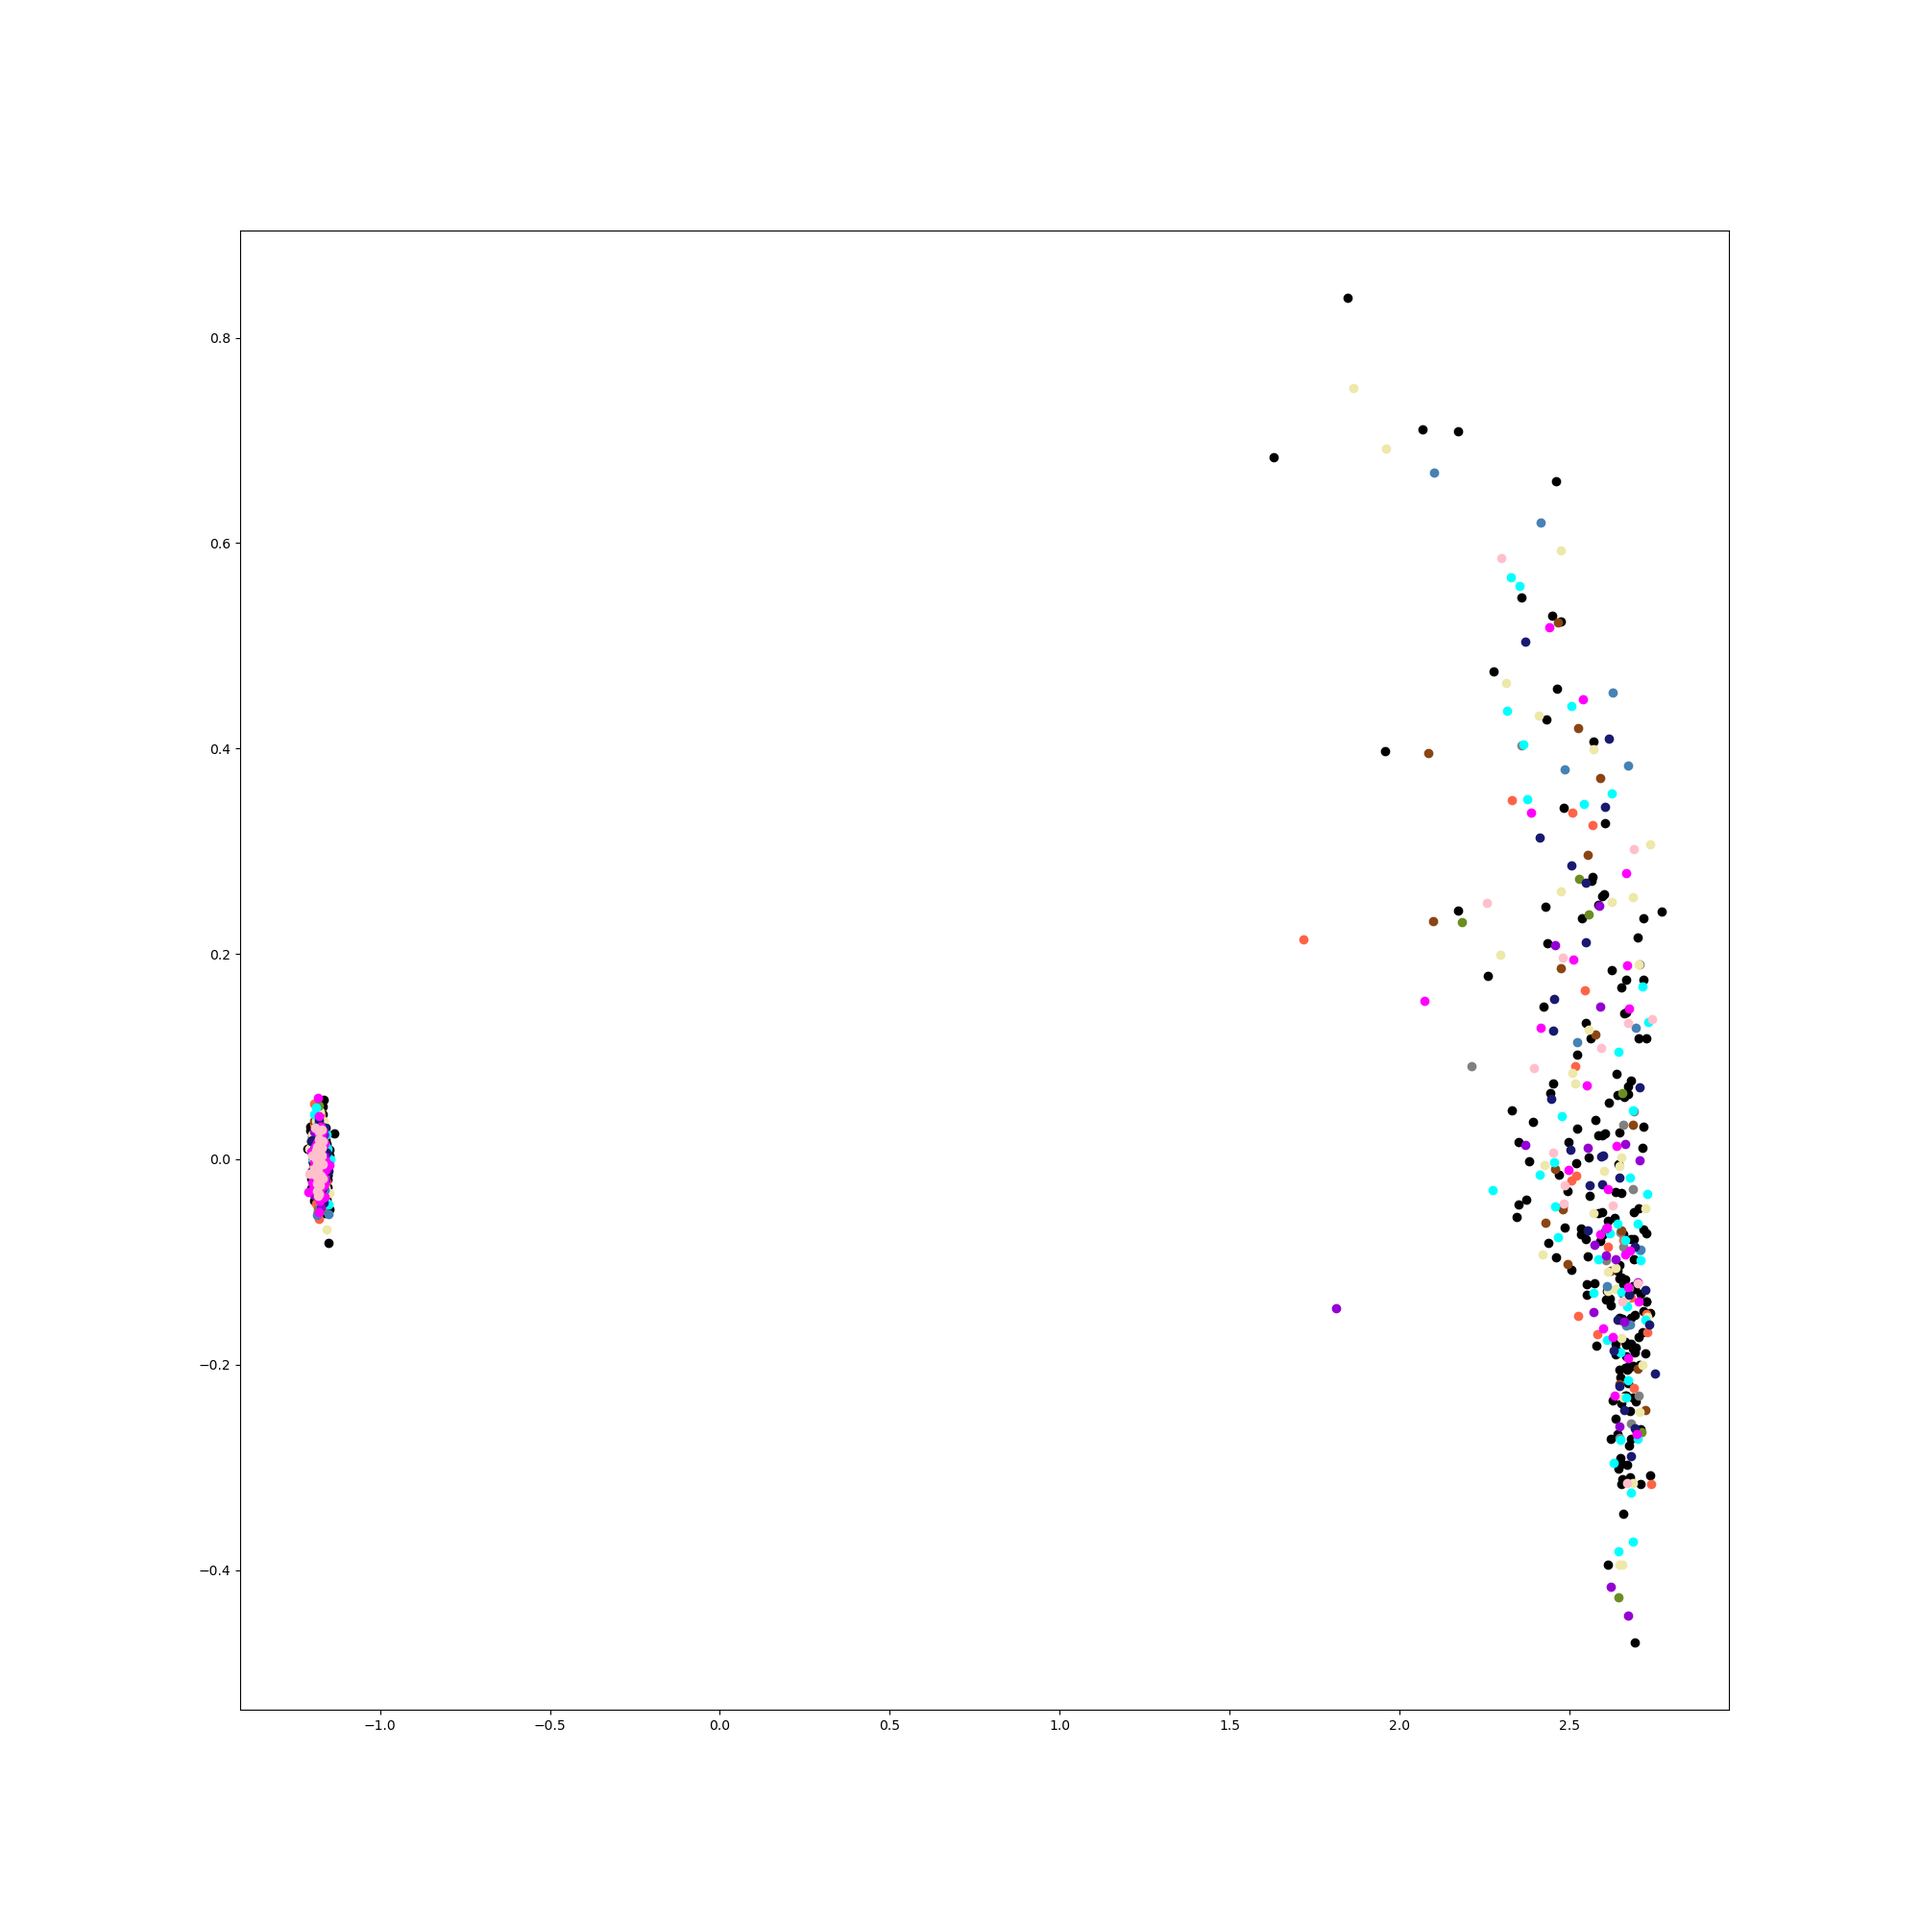
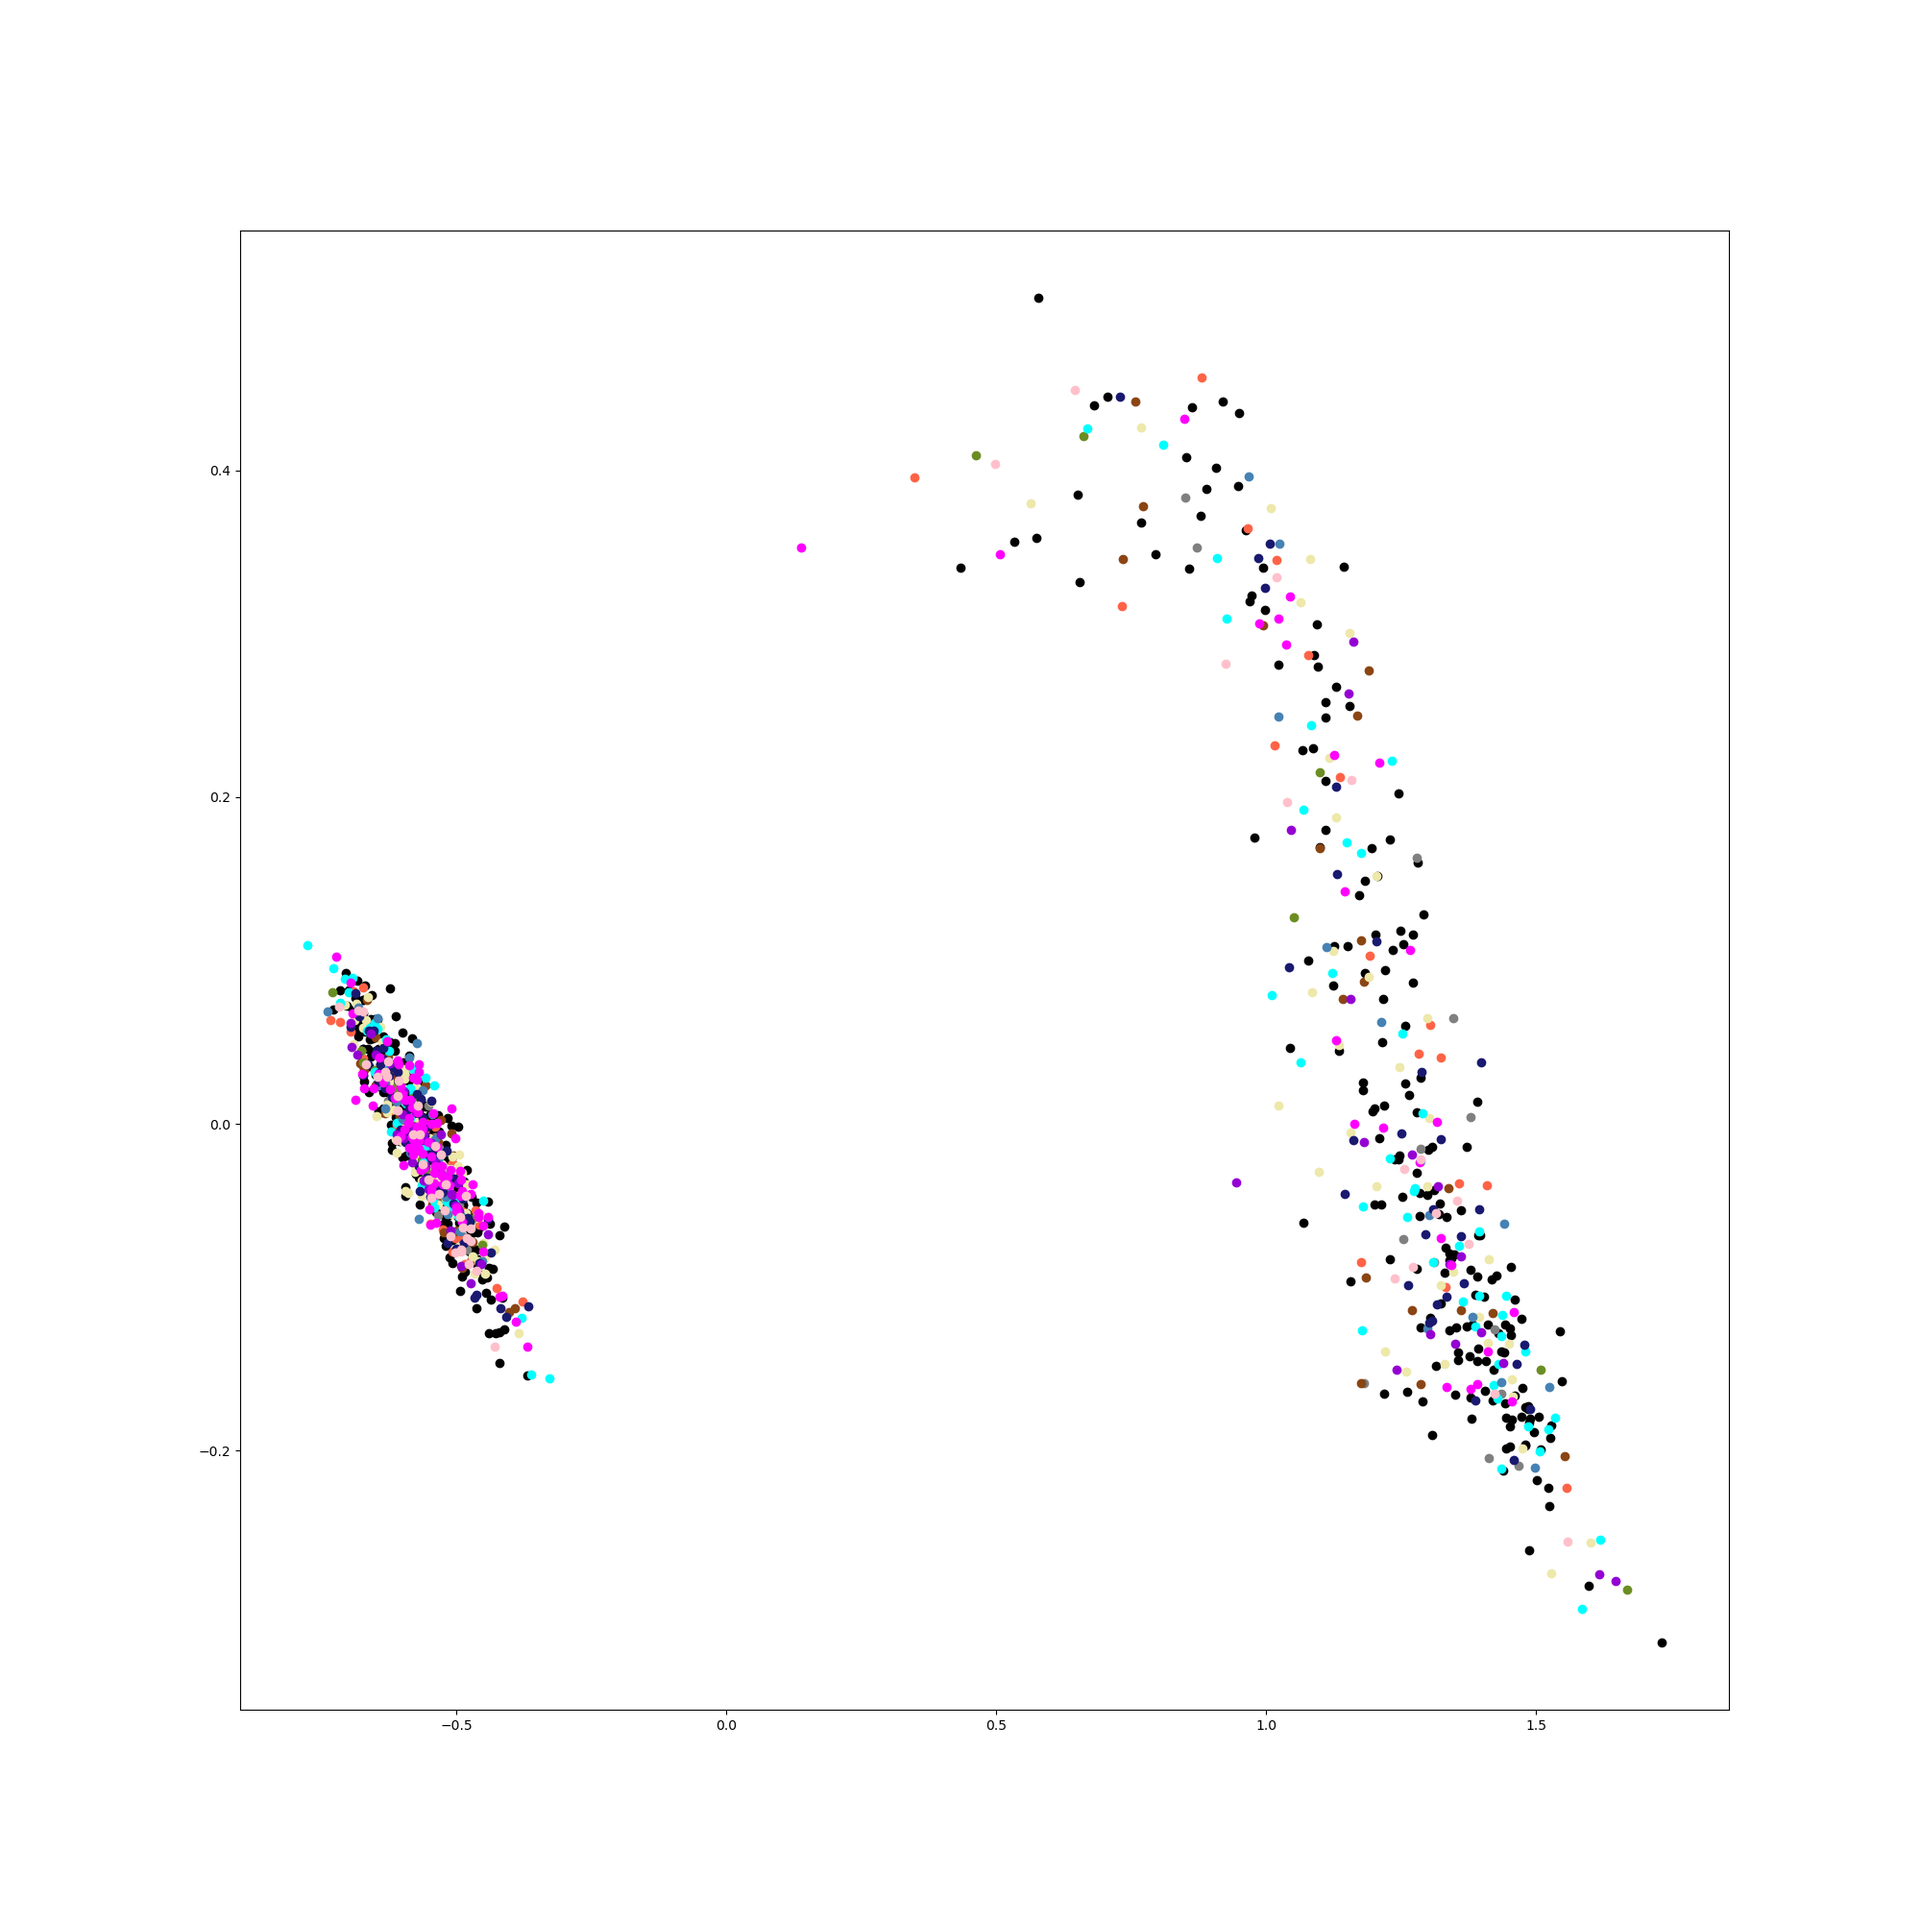
done training

diff --git a/run_cite.py b/run_cite.py
@@ -1,5 +1,5 @@
 import os
-os.environ['CUDA_VISIBLE_DEVICES'] = '1'
+os.environ['CUDA_VISIBLE_DEVICES'] = '0'
 import sys
 
 import argparse
@@ -41,7 +41,7 @@ def parse_args():
     parser.add_argument('--dataset', type=str, default='AASC',help="AASC or PeerRead")
     parser.add_argument('--batch_size', type=int, default=16, help="batch size")
     parser.add_argument('--frequency', type=int, default=5, help="frequency to remove rare entity")
-    parser.add_argument('--lr', type=float, default=5e-5, help="learning rate")
+    parser.add_argument('--lr', type=float, default=1e-4, help="learning rate")
     parser.add_argument('--epoch', type=int, default=5, help="number of epochs")
     parser.add_argument('--WINDOW_SIZE', type=int, default=125, help="the length of context length")
     parser.add_argument('--MAX_LEN', type=int, default=256, help="MAX length of the input")
@@ -316,7 +316,7 @@ def main():
                     loss.backward()
                     optimizer.step()
                     pbar.set_postfix(collections.OrderedDict(loss=loss.detach().cpu().numpy()))
-            if epoch % 2 == 0 or epoch == args.epoch:
+            if epoch % 3 == 0 or epoch == args.epoch:
                 #save model
                 model_name = "model_"+"epoch"+str(epoch)+"_batchsize"+str(args.batch_size)+"_learningrate"+str(args.lr)+"_data"+str(args.dataset)+"_WINDOWSIZE"+str(args.WINDOW_SIZE)+"_MAXLEN"+str(args.MAX_LEN)+"_pretrainedmodel"+str(args.pretrained_model)+"_"+args.mask_type+"_"+args.final_layer+"_"+args.loss_type+".bin"
                 torch.save(model.state_dict(),os.path.join(settings.model_path,model_name))
